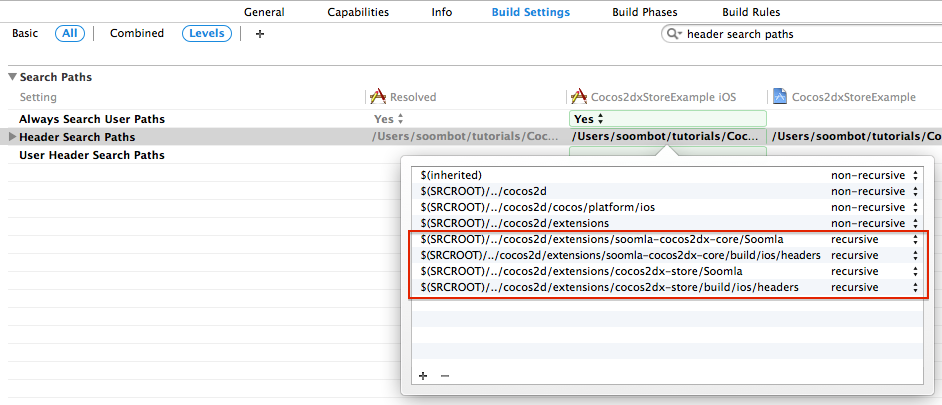
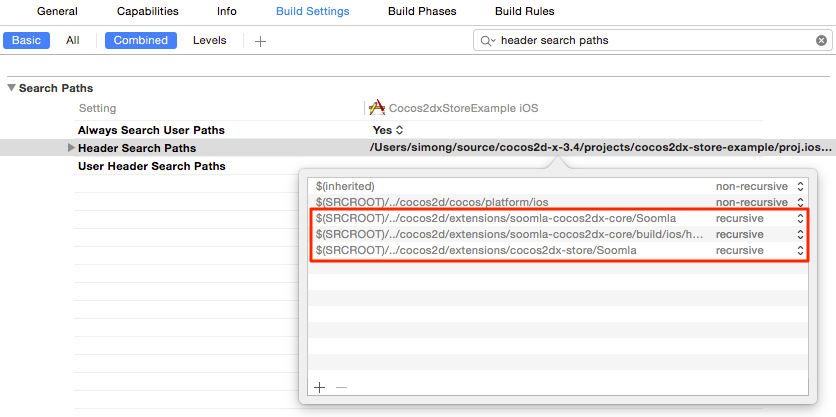
updating store getting started

Changed region(s): [[0.0, 0.1778, 1.0, 1.0], [0.0, 0.0, 1.0, 0.1481], [0.8086, 0.2074, 0.9641, 0.2667]]

diff --git a/src/documents/cocos2dx/store/Store_GettingStarted.html.md b/src/documents/cocos2dx/store/Store_GettingStarted.html.md
@@ -29,48 +29,41 @@ platform: 'cocos2dx'
 2. cocos2dx-store uses a [fork](https://github.com/vedi/jansson) of the jansson library for JSON parsing. Clone it into the `external` directory at the root of your Cocos2d-x framework.
 
 	```
-	$ git clone git@github.com:vedi/jansson.git external/jansson
+	$ git clone git@github.com:soomla/jansson.git external/jansson
 	```
 
 3. Create your own implementation of `CCStoreAssets` that will represent the assets in your specific game. For a brief example, refer to the example below. For a complete example refer to [cocos2dx-store-example](https://github.com/soomla/cocos2dx-store-example/blob/master/Classes/MuffinRushAssets.cpp).
 
-4. Implement your `CCStoreEventHandler` in order to be notified about in-app purchase related events. Refer to the [Event Handling](/cocos2dx/store/Store_Events) section for more information.
+4. Make sure to include the `Cocos2dxStore.h` header whenever you use any of the *cocos2dx-store* functions:
 
-5. Initialize `CCServiceManager`, `CCStoreService`, `CCStoreAssets` (the the class you just created), a `customSecret` and other params:
+	```cpp
+	#include "Cocos2dxStore.h"
+	```
+
+5. Initialize `CCSoomla` and `CCSoomlaStore` with the class you just created, a `customSecret` and other params:
 
 	``` cpp
+	soomla::CCSoomla::initialize("ExampleCustomSecret");
+
 	YourImplementationAssets *assets = YourImplementationAssets::create();
 
-	__Dictionary *commonParams = __Dictionary::create();
-	commonParams->setObject(__String::create("ExampleCustomSecret"), "customSecret");
-
 	__Dictionary *storeParams = __Dictionary::create();
+	 storeParams->setObject(__String::create("ExamplePublicKey"), "androidPublicKey");
+	 storeParams->setObject(__Bool::create(true), "testPurchases");
 
-	soomla::CCServiceManager::getInstance()->setCommonParams(commonParams);
-
-	storeParams->setObject(__String::create("ExamplePublicKey"), "androidPublicKey");
-
-	soomla::CCStoreService::initShared(assets, storeParams);
+	soomla::CCSoomlaStore::initialize(assets, storeParams);
 	```
 
 	- *Custom Secret* - is an encryption secret you provide that will be used to secure your data.
 
 	- *Android Public Key* - is the public key given to you from Google. (iOS doesn't have a public key).
 
+	- *Test Purchases* - allows testing IAP on Google Play. (iOS doesn't have this functionality).
+
 	<div class="warning-box">Choose the secret wisely. You can't change it after you launch your game!
-	Initialize `CCStoreService` ONLY ONCE when your application loads.</div>
+	Initialize `CCSoomlaStore` ONLY ONCE when your application loads.</div>
 
-6. Make sure to include the `Cocos2dxStore.h` header whenever you use any of the *cocos2dx-store* functions:
-
-    ```cpp
-    #include "Cocos2dxStore.h"
-    ```
-
-7. Add an instance of your event handler to `CCStoreEventDispatcher` after `CCStoreService` initialization:
-
-    ```cpp
-    soomla::CCStoreEventDispatcher::getInstance()->addEventHandler(handler);
-    ```
+6. You'll need to subscribe to store events to get notified about in-app purchasing related events. refer to the [Event Handling](/cocos2dx/store/Store_Events) section for more information.
 
 **The next steps are different according to which platform you're using.**
 
@@ -80,7 +73,7 @@ platform: 'cocos2dx'
 
 In your XCode project, perform the following steps:
 
-1. Add `jansson` (**external/jansson/**) to your project (just add it as a source folder).
+1. Add `jansson` (**external/jansson/**) to your project (just add it as a source folder, make sure to check "create group").
 
 2. For each of the following XCode projects:
 
@@ -104,30 +97,13 @@ In your XCode project, perform the following steps:
 
 	- `$(SRCROOT)/../cocos2d/extensions/cocos2dx-store/Soomla`
 
-	- `$(SRCROOT)/../cocos2d/extensions/cocos2dx-store/build/ios/headers`
-
  ![alt text](/img/tutorial_img/cocos2dx_getting_started/headerSP.png "Header search paths")
 
 4. Add `-ObjC` to your project **Build Settings->Other Linker Flags**.
 
 	![alt text](/img/tutorial_img/cocos2dx_getting_started/objc.png "Pther Linker Flags")
 
-5. To register services on the native application (AppController):
-
-  a. Import the following headers:
-
-    ``` cpp
-    #import "ServiceManager.h"
-    #import "StoreService.h"
-    ```
-
-  b. Register the native `StoreService` at the beginning of the method `application: didFinishLaunchingWithOptions:` of `AppController` by adding:
-
-    ```cpp
-    [[ServiceManager sharedServiceManager] registerService:[StoreService sharedStoreService]];
-    ```
-
-6. Make sure you have these 3 Frameworks linked to your XCode project: **Security, libsqlite3.0.dylib, StoreKit**.
+5. Make sure you have these 3 Frameworks linked to your XCode project: **Security, libsqlite3.0.dylib, StoreKit**.
 
 **That's it! Now all you have to do is build your XCode project and run your game with cocos2dx-store.**
 
@@ -157,38 +133,7 @@ In your XCode project, perform the following steps:
     - SoomlaAndroidStore.jar
     - Cocos2dxAndroidStore.jar
 
-3. In your game's main Cocos2dxActivity, call the following in the `onCreateView` method:
-
-    ``` java
-    public Cocos2dxGLSurfaceView onCreateView() {
-
-      // initialize services
-      final ServiceManager serviceManager = ServiceManager.getInstance();
-      serviceManager.setActivity(this);
-      serviceManager.setGlSurfaceView(glSurfaceView);
-      serviceManager.registerService(StoreService.getInstance());
-
-      ...
-    }  
-    ```
-
-4. Override `onPause`, `onResume`:
-
-    ``` java
-    @Override
-    protected void onPause() {
-        super.onPause();
-        ServiceManager.getInstance().onPause();
-    }
-
-    @Override
-    protected void onResume() {
-        ServiceManager.getInstance().onResume();
-        super.onResume();
-    }
-    ```
-
-5. Update your AndroidManifest.xml to include permissions and the SoomlaApp:
+3. Update your AndroidManifest.xml to include permissions and the SoomlaApp:
 
     ```xml
     <uses-permission android:name="android.permission.INTERNET"/>
@@ -308,7 +253,7 @@ SOOMLA's cocos2dx-store knows how to contact Google Play, Amazon Appstore, or Ap
 
 Create your own implementation of `CCStoreAssets`; See the article about `CCStoreAssets`, which includes a code example and explanations.
 
-Then, initialize `CCStoreService` with your implementation of `CCStoreAssets`:
+Then, initialize `CCSoomlaStore` with your implementation of `CCStoreAssets`:
 
 ``` cpp
 //In `AppDelegate.cpp`:
@@ -316,18 +261,16 @@ Then, initialize `CCStoreService` with your implementation of `CCStoreAssets`:
 #include "YourImplementationAssets.h"
 
 bool AppDelegate::applicationDidFinishLaunching() {
-    __Dictionary *commonParams = __Dictionary::create();
-    commonParams->setObject(__String::create("ExampleCustomSecret"), "customSecret");
+	soomla::CCSoomla::initialize("ExampleCustomSecret");
 
-    soomla::CCServiceManager::getInstance()->setCommonParams(commonParams);
+	YourImplementationAssets *assets = YourImplementationAssets::create();
 
-		YourImplementationAssets *assets = YourImplementationAssets::create();
+	__Dictionary *storeParams = __Dictionary::create();
+	storeParams->setObject(__String::create("ExamplePublicKey"), "androidPublicKey");
+	storeParams->setObject(__Bool::create(true), "testPurchases");
 
-    __Dictionary *storeParams = __Dictionary::create();
-    storeParams->setObject(__String::create("ExamplePublicKey"), "androidPublicKey");
-
-    soomla::CCStoreService::initShared(assets, storeParams);
-    ...
+	soomla::CCSoomlaStore::initialize(assets, storeParams);
+	...
 }
 ```
 
